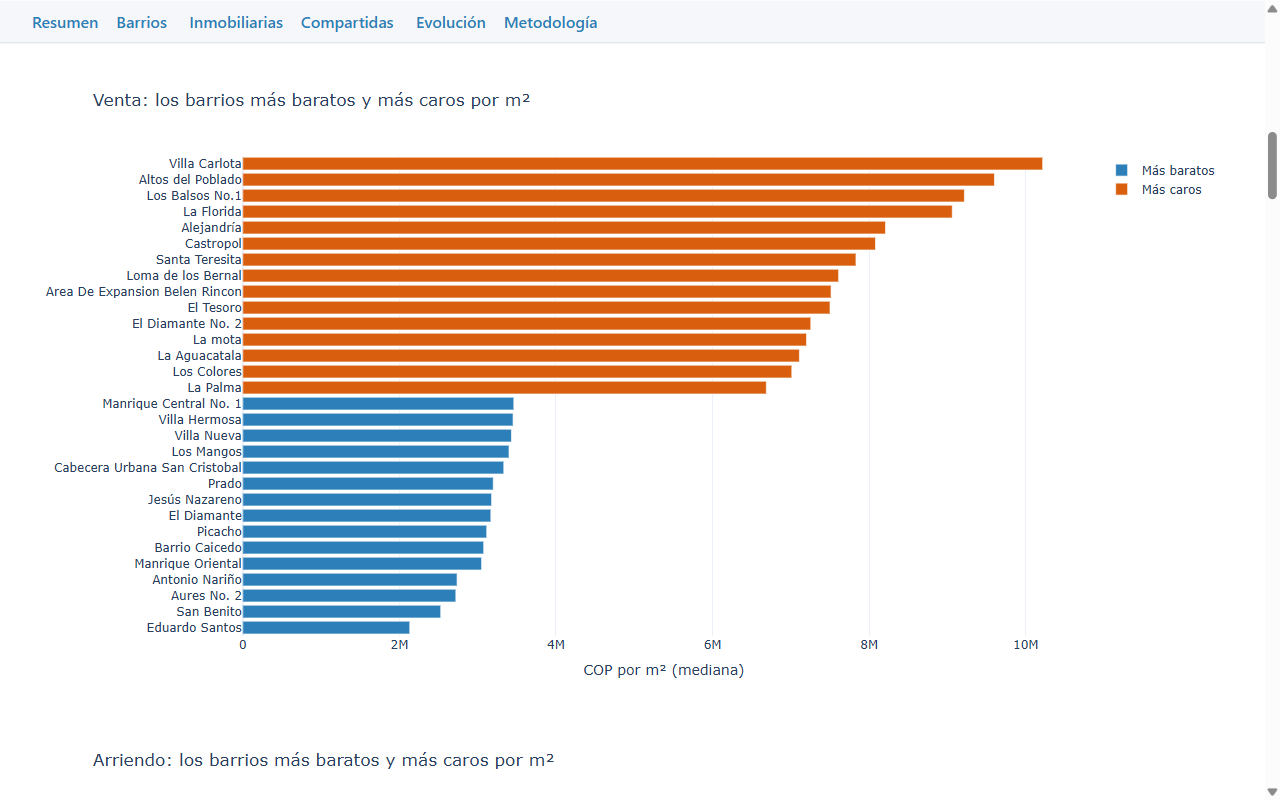
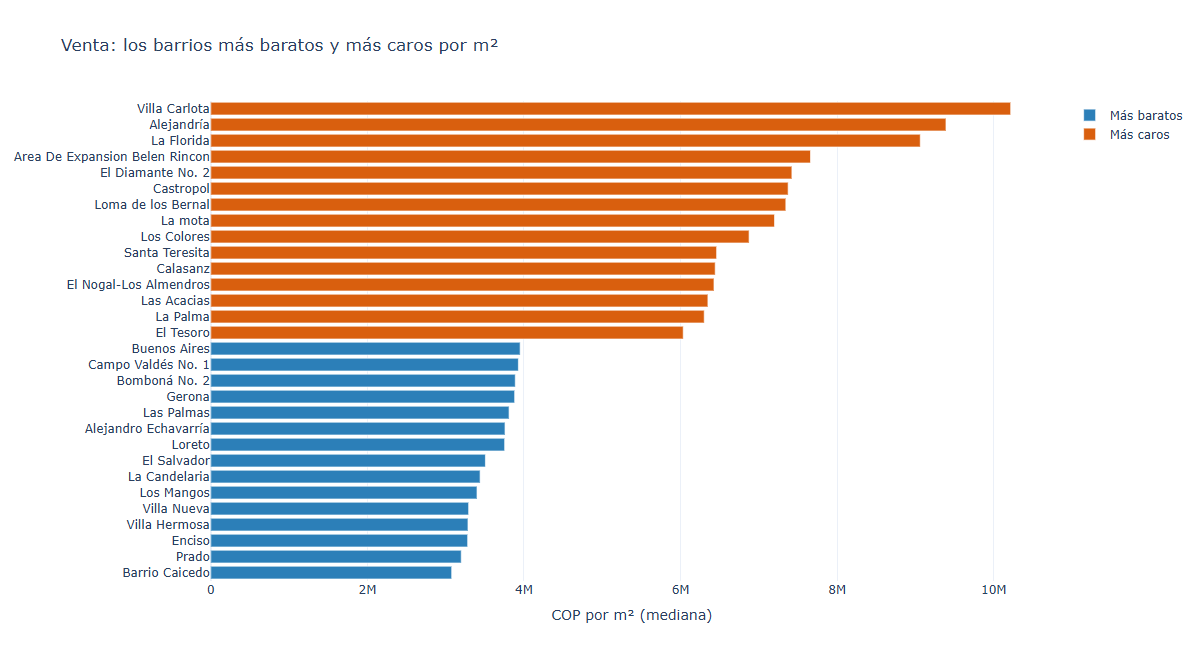
docs: tres hallazgos al inicio del README, preguntas por tema, limitaciones y capturas nuevas; feat: pagina de geografia

diff --git a/README.md b/README.md
@@ -6,17 +6,89 @@
 ![Licencia](https://img.shields.io/badge/licencia-MIT-green)
 [![Dashboard](https://img.shields.io/badge/dashboard-en%20vivo-2c7fb8)](https://wjohan39-jpg.github.io/observatorio-inmobiliario-medellin/)
 
-Proyecto de análisis de datos de punta a punta: **extrae** anuncios de inmobiliarias de Medellín, los **valida y limpia**, los **guarda** con histórico semanal y los **analiza** en un dashboard web.
+Proyecto de análisis de datos de punta a punta: **extrae** anuncios de 9 inmobiliarias de Medellín, los **valida y limpia**, los **empareja** entre inmobiliarias, los **guarda** con histórico semanal y los **analiza** en un dashboard web con mapas y estadística espacial.
 
 > **Estado:** completo y funcionando. Se actualiza solo cada lunes (ver [Automatización](#automatización)). La [hoja de ruta](docs/superpowers/plans/2026-11-10-hoja-de-ruta.md) tiene el detalle de cómo se construyó.
 
+![Mapa del precio por m² de vivienda en venta, por barrio](docs/img/sitio-inicio.png)
+
+## Tres hallazgos
+
+Con los datos de la semana **2026-S46**, la última corrida completa: 9 inmobiliarias y 10.763 anuncios únicos, de los que 7.085 son de Medellín y no son atípicos. Cada hallazgo dice qué decisión ayuda a tomar y qué **no** prueba. Las cifras cambian con cada corrida semanal; el [notebook](notebooks/01_analisis_exploratorio.ipynb) y el dashboard las recalculan.
+
+### 1. Los precios tienen geografía: los barrios caros están juntos
+
+El índice de Moran del precio por m² es **0,46 (p = 0,001, el mínimo posible con 999 permutaciones)** tanto en venta (102 barrios) como en arriendo (115): los barrios con precios parecidos están pegados, no repartidos al azar. En venta, los cuatro clústeres alto-alto son de El Poblado (La Florida, Alejandría, Castropol y El Tesoro). En arriendo, 15 de los 17 también son de la comuna 14.
+
+![Clústeres espaciales del precio por m² en venta](docs/img/sitio-geografia.png)
+
+- **Decisión que ayuda a tomar:** para valorar o comparar un inmueble no basta el precio de su barrio; hay que mirar también a los vecinos. Quien busca comprar puede revisar los barrios *bajo-alto* (Santa Fe y El Rincón en venta): más baratos que su entorno, que es caro.
+- **No prueba:** que el vecindario cause el precio, ni que un barrio bajo-alto sea una oportunidad. No se conoce el estado de los inmuebles, y los clústeres locales no se corrigen por comparaciones múltiples.
+
+### 2. Medellín no es monocéntrica: el precio no baja al alejarse del centro histórico
+
+La correlación de Spearman entre la distancia a cada centro y el precio por m² de los barrios:
+
+| Centro de referencia | Venta | Arriendo |
+|---|---|---|
+| Centro histórico (Parque Berrío) | +0,20 | +0,29 |
+| El Poblado (Parque Lleras) | −0,36 | −0,41 |
+| Laureles (Primer Parque) | −0,32 | +0,03 |
+
+Alejarse de El Poblado sí abarata; alejarse del centro histórico no (si algo, encarece).
+
+- **Decisión que ayuda a tomar:** un modelo de precios o una búsqueda de vivienda no debe usar la «distancia al centro» como sustituto del valor. Hay que medir contra varios centros, sobre todo El Poblado.
+- **No prueba:** un efecto. La distancia se mezcla con el estrato y la zona, y los puntos de referencia son aproximados. No se midió la cercanía a vías, metro o parques porque el proyecto no tiene esos datos.
+
+### 3. El inventario está repartido entre varias inmobiliarias y casi no se repite
+
+Santa Fe, Maxibienes y Alnago suman el **58 %** del inventario observado (21,7 %, 18,7 % y 17,5 %), y el índice HHI de la ciudad es 1.493, en el límite entre poco y moderadamente concentrado. Solo el **5,6 %** de los anuncios (181 inmuebles) aparece en más de una inmobiliaria con confianza media o mayor, y el 2,5 % (84 inmuebles) con confianza alta. Cuando un inmueble sí se repite con confianza alta, la diferencia de precio mediana entre inmobiliarias es de solo 2 %.
+
+![Cuota de inventario por inmobiliaria](docs/img/sitio-cuota.png)
+
+- **Decisión que ayuda a tomar:** quien compra o arrienda no puede confiar en una sola inmobiliaria, porque la mayor cubre apenas un 22 %: conviene consultar varias. Para una inmobiliaria, el mapa de cuotas por barrio muestra dónde compite y dónde es la única. Para un análisis, contar el inventario sin quitar duplicados lo sobrestima.
+- **No prueba:** la cuota del mercado. Son 9 inmobiliarias; faltan otras y los particulares. Los 5,6 % son probablemente un mínimo, porque para emparejar se exigen comuna, tipo, área, alcobas y baños iguales.
+
 ## Preguntas que responde
 
-- ¿Cuánto cuesta el m² en cada barrio de Medellín?
-- ¿Qué inmobiliarias cubren más barrios y en qué estratos trabajan?
-- ¿Cuáles manejan las ventas y los arriendos más económicos?
-- ¿Qué inmobiliarias publican el mismo inmueble y con qué diferencia de precio?
-- ¿Cómo evolucionan los precios semana a semana?
+Cada grupo corresponde a una página del [dashboard](#dashboard).
+
+**Precios y mercado** (*Barrios*, *Análisis de precios*)
+- ¿Cuánto cuesta el m² por barrio, comuna y estrato, y cuáles son los más caros y más baratos?
+- ¿Qué tan dispersos están los precios dentro de cada barrio, y cuándo engaña el promedio?
+- ¿Cuánto cambia el precio según el tipo de inmueble, el área y la operación?
+- ¿Cuál es la rentabilidad bruta por barrio y dónde favorece comprar o arrendar?
+
+**Oferta y rotación** (*Oferta y rotación*, *Evolución*)
+- ¿Cuántos inmuebles activos hay por barrio, tipo y operación?
+- ¿Cómo se distribuye la oferta por rango de precio y número de alcobas?
+- ¿Cuántos anuncios nuevos y retirados hay cada semana y cómo evolucionan los precios?
+
+**Inmobiliarias** (*Cuota y perfil*, *Inmobiliarias*)
+- ¿Qué cuota del inventario tiene cada inmobiliaria, en total y por barrio, y qué tan concentrado está (HHI)?
+- ¿En qué tipo de inmueble, operación y estrato se especializa cada una?
+- ¿Cuáles cobran más o menos que el resto en su mismo barrio y tipo?
+
+**Propiedades compartidas** (*Propiedades compartidas*)
+- ¿Cuántos inmuebles publican varias inmobiliarias, con qué diferencia de precio, y cuáles comparten más inventario entre sí?
+
+**Calidad de los datos** (*Calidad de los datos*)
+- ¿Qué % de los datos falta, cuántos precios o áreas son atípicos o erróneos, qué tan consistente es la ubicación (nombre frente a coordenadas) y cuántos duplicados hay, por inmobiliaria?
+
+**Oportunidades y nichos** (*Oportunidades y nichos*)
+- ¿Qué barrios y estratos tienen poca cobertura de inmobiliarias, y qué parte de los anuncios está muy por debajo o por encima del precio de su barrio?
+
+**Geografía** (*Geografía*)
+- ¿Hay clústeres espaciales de precios altos o bajos (Moran)? ¿Cómo cambia el precio al alejarse de los centros? ¿Cómo se compara El Poblado, Laureles y los municipios vecinos?
+
+## Limitaciones y qué haría con más tiempo
+
+- **Alcance:** son 9 inmobiliarias y, por ahora, una sola semana completa; no hay tendencias. Una corrida puede salir parcial (la de 2026-S47 trajo 7 de las 9), por eso las cifras de este README son de 2026-S46.
+- **Ubicación:** solo ~50 % de los anuncios tiene coordenadas y por tanto barrio oficial; los análisis por barrio subrepresentan a las inmobiliarias que no las publican.
+- **Variables que no hay:** estado, antigüedad, piso y fotos. Un precio bajo para su barrio **no prueba una ganga**: cerca de 1 de cada 5 anuncios cae por cada lado del ±20 % solo por la dispersión normal.
+- **Duplicados:** no se mide la repetición con pequeñas variaciones dentro de una misma inmobiliaria, y el emparejamiento entre inmobiliarias no tiene una auditoría manual que mida su precisión.
+
+Con más tiempo: acumular semanas para medir **días en el mercado**, bajadas de precio y publicaciones «zombi»; traer datos de OpenStreetMap para estimar el efecto de metro, parques y vías; reemplazar la comparación con la mediana del barrio por una **regresión hedónica** (precio frente a área, estrato, alcobas y zona); revisar a mano unas 50 parejas del emparejamiento; y publicar la app de Streamlit.
 
 ## Uso
 
@@ -183,7 +255,7 @@ Resume la última semana limpia y todo el histórico en `data/agregados/`. **Son
 
 **Evolución:** la rotación se mide por inmobiliaria. Cada una se compara con su propia semana anterior con datos, así un scraping que falló, o una fuente que se agregó tarde, no parece un retiro masivo ni un inventario nuevo. La duración publicada excluye los anuncios que ya estaban en la primera semana de su inmobiliaria, porque no se sabe cuándo empezaron. Con una sola semana (2026-S46), estas tablas todavía no muestran retiros ni cambios.
 
-## Hallazgos
+## Más hallazgos del notebook
 
 Del [notebook de análisis exploratorio](notebooks/01_analisis_exploratorio.ipynb), con los datos de la semana 2026-S46 (vivienda en Medellín):
 
@@ -205,11 +277,13 @@ uv run --group analisis jupyter nbconvert --to notebook --execute --inplace note
 
 **En vivo:** https://wjohan39-jpg.github.io/observatorio-inmobiliario-medellin/
 
-![Resumen del mercado: indicadores y mapa del precio por m² por barrio](docs/img/sitio-inicio.png)
-
-| Barrios más baratos y más caros | Cobertura de cada inmobiliaria |
+| Barrios más baratos y más caros | Clústeres espaciales (Moran local) |
 |---|---|
-| ![Venta: los barrios más baratos y más caros por m²](docs/img/sitio-barrios.png) | ![Barrios cubiertos por inmobiliaria y dónde se concentra cada una](docs/img/sitio-inmobiliarias.png) |
+| ![Venta: los barrios más baratos y más caros por m²](docs/img/sitio-barrios.png) | ![Clústeres espaciales del precio por m² en venta](docs/img/sitio-geografia.png) |
+| **Cuota de inventario por inmobiliaria** | **Barrios con poca cobertura** |
+| ![Cuota del inventario de cada inmobiliaria](docs/img/sitio-cuota.png) | ![Inmobiliarias con anuncios de venta en cada barrio](docs/img/sitio-nichos.png) |
+
+![Completitud de los datos de vivienda por inmobiliaria](docs/img/sitio-calidad.png)
 
 El dashboard tiene dos versiones con la misma información. Las dos leen solo `data/agregados/`, así que nunca muestran ids, enlaces ni coordenadas de anuncios.
 
